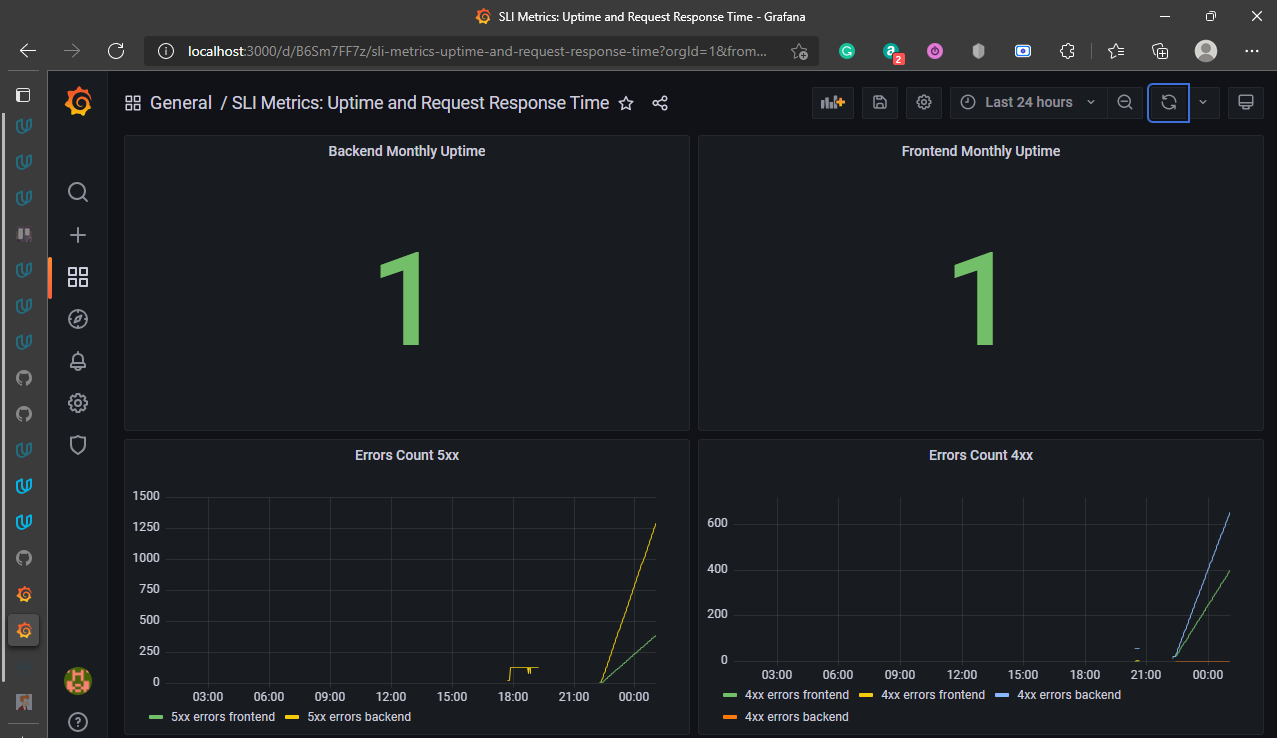
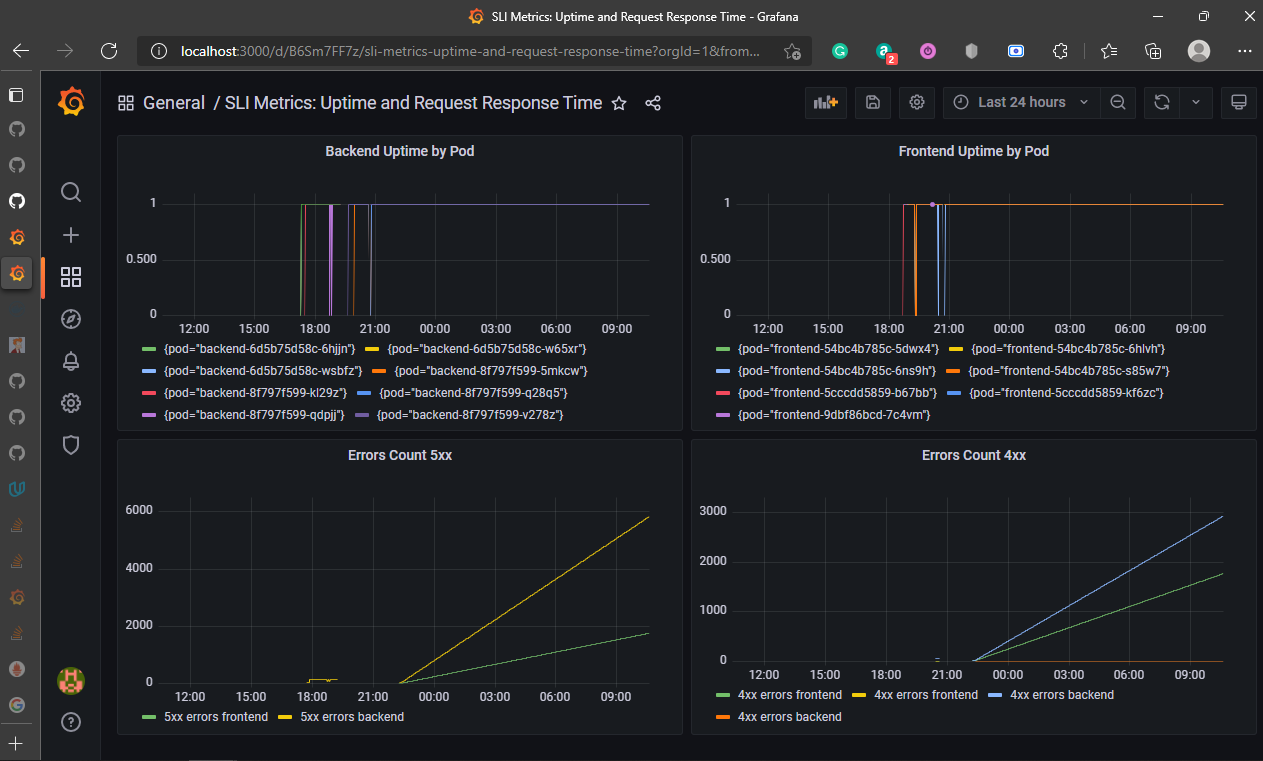
Address feedback related to SLI and dashboard (#3)

diff --git a/Project_Starter_Files-Building_a_Metrics_Dashboard/README.md b/Project_Starter_Files-Building_a_Metrics_Dashboard/README.md
@@ -73,20 +73,50 @@ I'm assuming uptime as the amount of time that a service was available to respon
 1. Latency — The time taken to serve a request
 2. Traffic — The amount of stress on a system from demand
 3. Errors — The number of requests that are failing
+4. Saturation: The overall capacity of a service
 
 ## Building KPIs for our plan
 *TODO*: Now that we have our SLIs and SLOs, create KPIs to accurately measure these metrics. We will make a dashboard for this, but first write them down here.
 
-1. Traffic - The number of successful HTTP requests / minute
+1. Traffic
+    
+    1. Total successful HTTP requests / minute
+        
+        * The number of successful (2xx or 4xx) HTTP requests processed / minute shows the service are able to serve requests.
+    
+    1. Total requests / minute
 
-    * The number of successful (2xx or 4xx) HTTP requests processed / minute shows the service are able to serve requests.
+        * The number of all requests coming in and grouped by the HTTP status. This will help see how many total requests are successfully processed and failed.
 
-2. Latency - The average time taken to serve requests / minute under 2 minutes
-    * The metric helps to understand how fast the service serve requests. If it's over 5 minutes, then it might indicates issues that potentially could affect the uptime.
+1. Latency
 
-3. Errors - The number of 500 errors returned / minute
+    1. The average response time taken to serve requests / minute by each pods
+        
+        * The KPI helps to understand how fast the service serve requests.
 
-    * 500 errors shows processed are failed to be processed and impacts the uptime of our service. The metric helps us to spot the 500 error trends so we could act as fast as possible.
+    1. The average failed request time to serve requests / minute by each pods
+
+        * The KPI helps to identify which requests are considered as slow error and fast error. Slow error is important to be tracked as slow error impacts the systems more than fast error.
+
+1. Errors
+
+    1. The number of 500 errors returned / minute for each service
+
+        * 500 errors shows processed are failed to be processed and impacts the uptime of our service. The metric helps us to spot the 500 error trends so we could act as fast as possible.
+    
+    1. Response time under 5 seconds by each pods
+
+        * The KPI helps to understand which services takes longer than 5 seconds process. Service which takes more than 5 seconds processing time need to be investigated as it could impact player experiences and also request queue processing time.
+
+1.  Saturation
+
+    1. CPU Usage for each pod
+        
+        * The KPI helps understands how's the pos uses the CPU to serve requests. Constant high CPU usage needs investigation.
+
+    2. Memory Usage for each services
+
+        * The KPI helps understands how's the post uses the memory to serve requests. Constant high memory usage needs investigation.
 
 ## Final Dashboard
 *TODO*: Create a Dashboard containing graphs that capture all the metrics of your KPIs and adequately representing your SLIs and SLOs. Include a screenshot of the dashboard here, and write a text description of what graphs are represented in the dashboard.
